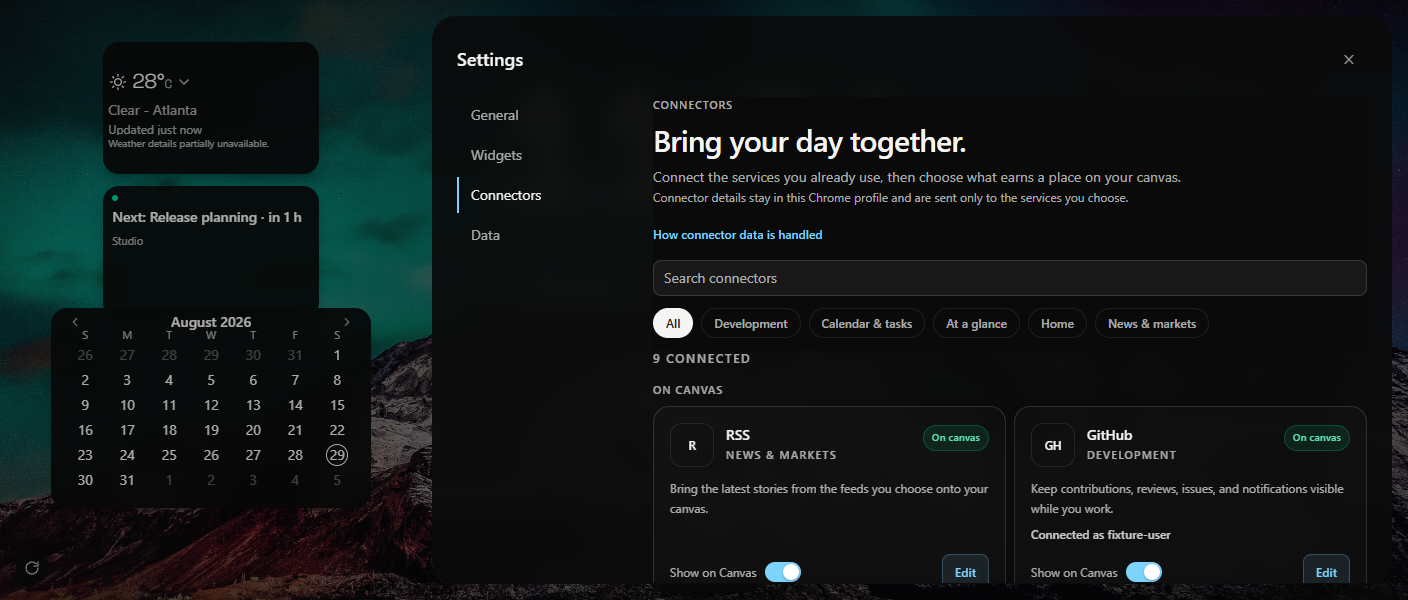
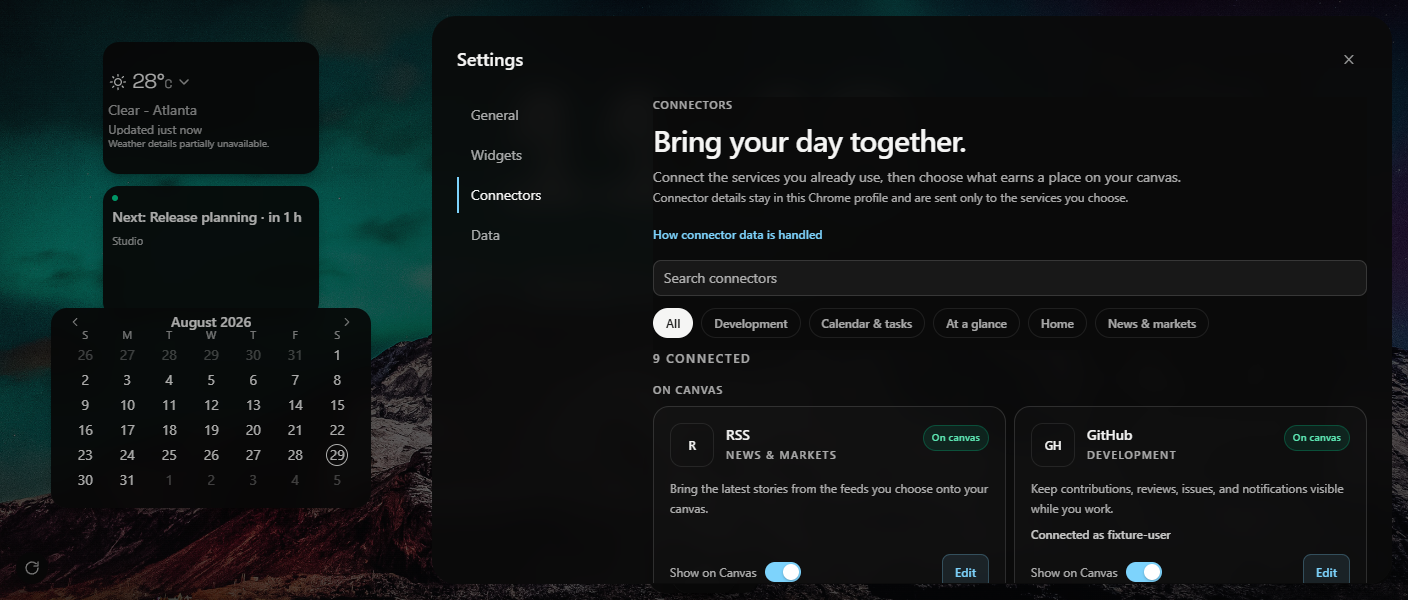
docs: verify connector settings glass surface

diff --git a/docs/superpowers/aurora-2/STATUS.md b/docs/superpowers/aurora-2/STATUS.md
@@ -7,7 +7,7 @@
 **Last verified packet:** `Tab Two V2 connector experience` - 3,424 green tests, TypeScript, a 265-module exact build, and dedicated desktop, short-height, narrow, modal, storage, and photo Chromium witnesses<br>
 **Current packet:** Owner review of the first V2 production packet, then the next approved product-polish packet
 
-- **Tab Two V2 connector experience (2026-08-29, VERIFIED):** Implemented the first bounded packet from the approved Tab Two V2 visual direction. Settings now uses a 60rem roomy workspace and 11rem rail, while Connectors receives a full-width discovery gallery with outcome-led cards, category filters, full-catalog search, connected count, and shared setup or edit dialogs. All existing connectors remain included and their storage, credentials, permissions, backup redaction, provider, and Canvas ownership remain unchanged. The full gate passed 214 files / 3,424 tests, TypeScript, diff hygiene, five Node QA contracts, and a 265-module exact production build. Exact Chromium at `df7ca1d` proved desktop, short-height, and 375px reflow, one Settings scroll owner, no horizontal overflow, focus restoration, RSS preference and visibility writes, secret non-rendering, a real 2560x1600 photo, and zero console or page errors. Four final captures were inspected at original resolution. Report: `docs/superpowers/reports/TAB-TWO-V2-CONNECTOR-EXPERIENCE-QA.md`. No account, payment, entitlement, merge, or Store action was performed.
+- **Tab Two V2 connector experience (2026-08-29, VERIFIED):** Implemented the first bounded packet from the approved Tab Two V2 visual direction. Settings now uses a 60rem roomy workspace and 11rem rail, while Connectors receives a full-width discovery gallery with outcome-led cards, category filters, full-catalog search, connected count, and shared setup or edit dialogs. All existing connectors remain included and their storage, credentials, permissions, backup redaction, provider, and Canvas ownership remain unchanged. The full gate passed 214 files / 3,424 tests, TypeScript, diff hygiene, five Node QA contracts, and a 265-module exact production build. Exact Chromium at `e311711` proved desktop, short-height, and 375px reflow, one Settings scroll owner, no horizontal overflow, a fully transparent sticky header with a 40px glass blur, focus restoration, RSS preference and visibility writes, secret non-rendering, a real 2560x1600 photo, and zero console or page errors. Four final captures were inspected at original resolution. Report: `docs/superpowers/reports/TAB-TWO-V2-CONNECTOR-EXPERIENCE-QA.md`. No account, payment, entitlement, merge, or Store action was performed.
 
 - **Background library and lock (2026-08-27, VERIFIED):** Removed owner-rejected catalog photos 19 and 23, added six approved untouched source-resolution landscapes, and expanded the bundled catalog to 27 photos with crisp local Settings previews. Daily Photo now supports keeping the current image and selecting any bundled image; selection locks immediately, unlocking preserves the image until the next local day, and serialized fresh-value updaters prevent delayed rotation from overwriting a new choice. The full gate passed 212 files / 3,409 tests, TypeScript, diff hygiene, and a 263-module production build. Two consecutive exact-commit Chromium runs exercised all six originals and the 27-photo picker at 1600x900 and touch-emulated 375x812 with exact source widths, no overflow, and zero console, page, or request failures. The protected checkout and Chrome Web Store remain untouched.
 

diff --git a/docs/superpowers/aurora-2/DECISIONS.md b/docs/superpowers/aurora-2/DECISIONS.md
@@ -748,4 +748,4 @@ ADR-lite entries record settled implementation direction without replaying conve
 - **Reason:** The previous stacked card editor was technically capable but read like configuration inventory instead of a polished product. People should understand what a connector adds, whether it is connected, and how its data is handled before they confront its form.
 - **Rejected:** Retroactively paywalling existing connectors; adding accounts, payments, sync, or new providers in the presentation packet; changing credentials, permissions, storage schema, backup redaction, provider requests, or Canvas ownership; rendering stored secret values; nested Settings scrollbars; or any Store action.
 - **Consequence:** Connector presentation copy now has one typed catalog. Setup, edit, and reconnect controls render in a portaled modal with exact focus restoration. General, Widgets, and Data keep their bounded reading measure while Connectors uses the full content column. Later freemium work must introduce an explicit entitlement authority rather than infer access from these cards.
-- **Verification:** The full gate passed 214 files / 3,424 tests, TypeScript, five Node QA contracts, diff hygiene, and a 265-module production build. Exact Chromium at `df7ca1ddde90739094cf93d843797686b45e384f` proved 960px desktop and short-height Settings geometry, 375px narrow reflow, two-column and one-column galleries, one scroll owner, zero horizontal overflow, category and search behavior, modal containment and focus restoration, authoritative RSS preference and visibility writes, secret non-rendering, a real 2560x1600 photo, and zero console or page errors. Four final captures were inspected at original resolution. Chrome Web Store state remained untouched.
+- **Verification:** The full gate passed 214 files / 3,424 tests, TypeScript, five Node QA contracts, diff hygiene, and a 265-module production build. Exact Chromium at `e311711ea339c7cb9fbae3d3ec026afc81ae5463` proved 960px desktop and short-height Settings geometry, 375px narrow reflow, two-column and one-column galleries, one scroll owner, zero horizontal overflow, a fully transparent sticky header with a 40px glass blur, category and search behavior, modal containment and focus restoration, authoritative RSS preference and visibility writes, secret non-rendering, a real 2560x1600 photo, and zero console or page errors. Four final captures were inspected at original resolution. Chrome Web Store state remained untouched.

diff --git a/docs/superpowers/reports/TAB-TWO-V2-CONNECTOR-EXPERIENCE-QA.md b/docs/superpowers/reports/TAB-TWO-V2-CONNECTOR-EXPERIENCE-QA.md
@@ -2,7 +2,7 @@
 
 **Date:** 2026-08-29<br>
 **Branch:** `feat/aurora-2-observatory`<br>
-**Exact QA commit:** `df7ca1ddde90739094cf93d843797686b45e384f`<br>
+**Exact QA commit:** `e311711ea339c7cb9fbae3d3ec026afc81ae5463`<br>
 **Result:** PASS
 
 ## Accepted scope
@@ -23,7 +23,7 @@ This is the first bounded production packet from the owner-approved Tab Two V2 v
 - `npx tsc --noEmit`: PASS.
 - `node --test scripts/qa-tab-two-v2-connectors.test.mjs`: PASS, 5 contracts.
 - `npm run build`: PASS, 265 transformed modules with exact provenance.
-- `npm run qa:tab-two-v2-connectors`: PASS against exact commit `df7ca1d`.
+- `npm run qa:tab-two-v2-connectors`: PASS against exact commit `e311711`.
 - `git diff --check`: PASS.
 
 The dedicated browser gate proved:
@@ -33,6 +33,7 @@ The dedicated browser gate proved:
 - Desktop and short-height galleries rendered two columns; narrow rendered one column.
 - Every viewport had one Settings vertical scroll owner and no page or Settings horizontal overflow.
 - Category filtering returned Calendar and Todoist; search still found GitHub across the full catalog.
+- The sticky connector header remained fully transparent with a 40px backdrop blur, eliminating the opaque black slab without losing scroll separation.
 - Calendar details stayed inside the viewport and Escape restored focus to the exact Edit Calendar action.
 - RSS headline count persisted as 7 without changing its two configured feeds.
 - RSS visibility persisted false, then true, without changing its feeds or count.
